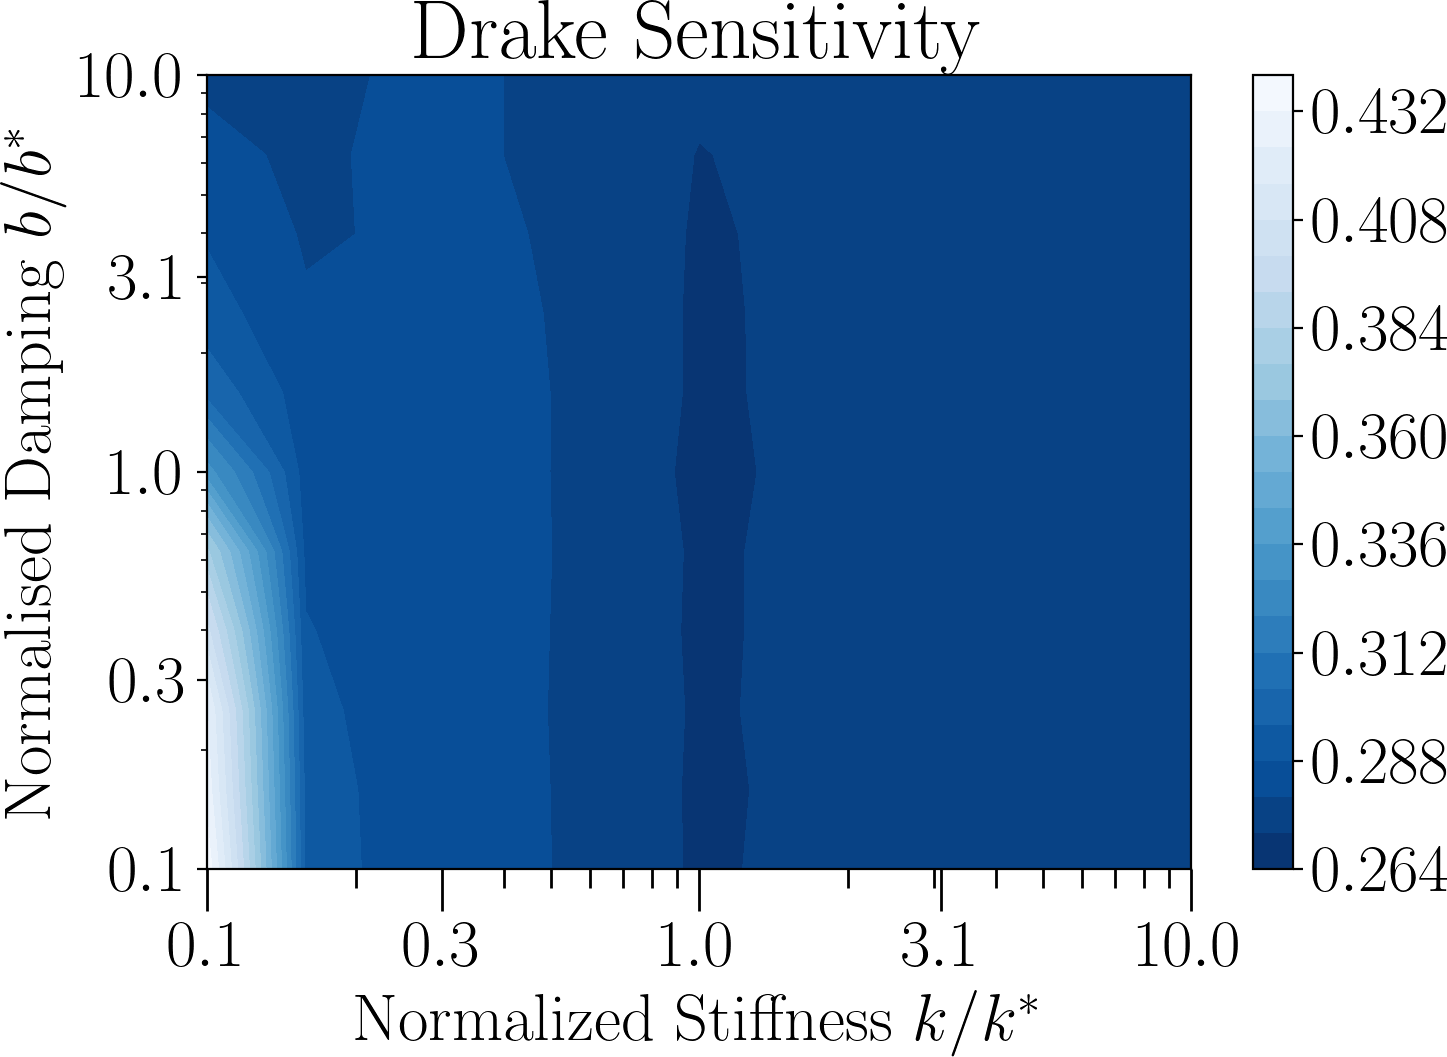
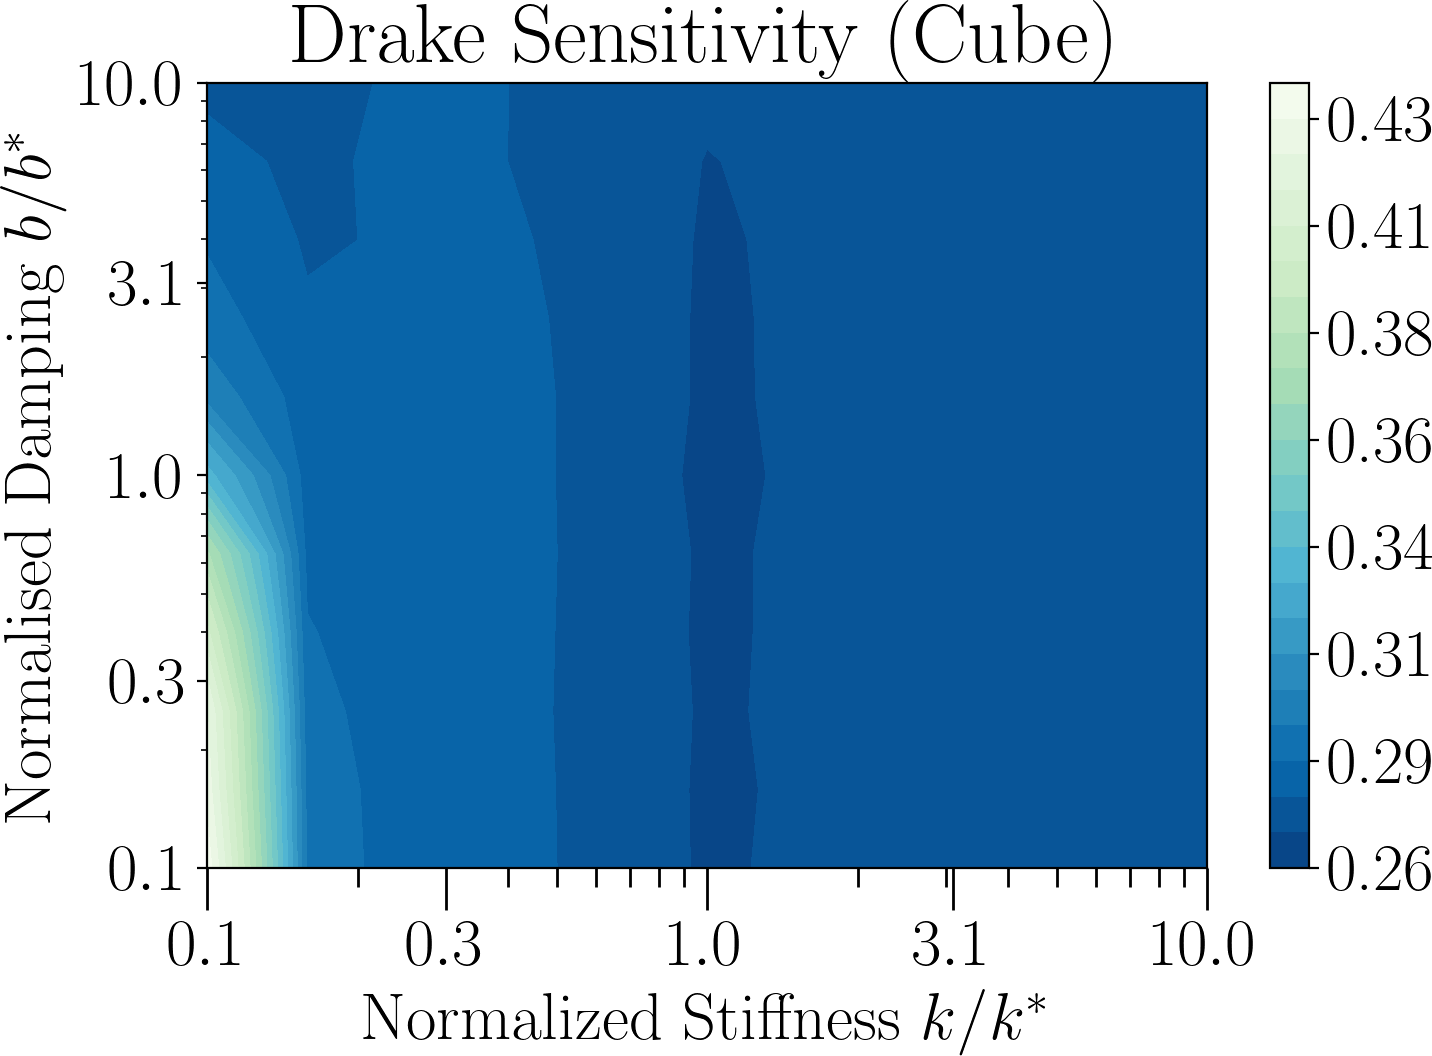
examples/contact_parameter_learning/cube_figures.py

diff --git a/examples/contact_parameter_learning/cube_figures.py b/examples/contact_parameter_learning/cube_figures.py
@@ -183,42 +183,45 @@ def make_pos_rot_sensitivity_analysis(ids, params_ranges):
 
 
 def make_gridded_sensitivity_analysis_figure(id, damp_key):
-    optimal_params, _, _ = cube_eval.load_params_and_logs(id)
-    stiffness_range = sa.get_stiffness_range(id.split('_')[0],
-                                            optimal_params['stiffness'], discretization_n=11)
-    damping_range = sa.get_damping_range(id.split('_')[0],
-                                         optimal_params[damp_key], discretization_n=11)
-    params_range = {'stiffness': stiffness_range['stiffness'],
-                    damp_key: damping_range[damp_key]}
-    weights = FastLossWeights(
-        pos=(1.0/BLOCK_HALF_WIDTH)*np.ones((3,)),
-        bullet=(format_sim_name(id) == 'Bullet'))
-    sensitivity_analysis = \
-        sa.get_gridded_stiffness_damping_sensitivity_analysis(
-            cube_eval.get_eval_sim(id), weights, optimal_params,
-            params_range, range(550))
+    # optimal_params, _, _ = cube_eval.load_params_and_logs(id)
+    # stiffness_range = sa.get_stiffness_range(id.split('_')[0],
+    #                                         optimal_params['stiffness'], discretization_n=11)
+    # damping_range = sa.get_damping_range(id.split('_')[0],
+    #                                      optimal_params[damp_key], discretization_n=11)
+    # params_range = {'stiffness': stiffness_range['stiffness'],
+    #                 damp_key: damping_range[damp_key]}
+    # weights = FastLossWeights(
+    #     pos=(1.0/BLOCK_HALF_WIDTH)*np.ones((3,)),
+    #     bullet=(format_sim_name(id) == 'Bullet'))
+    # sensitivity_analysis = \
+    #     sa.get_gridded_stiffness_damping_sensitivity_analysis(
+    #         cube_eval.get_eval_sim(id), weights, optimal_params,
+    #         params_range, range(550))
+    #
+    # X = sensitivity_analysis['stiffness'] / optimal_params['stiffness']
+    # Y = sensitivity_analysis[damp_key] / optimal_params[damp_key]
+    # Z = sensitivity_analysis['loss_avgs']
 
-    X = sensitivity_analysis['stiffness'] / optimal_params['stiffness']
-    Y = sensitivity_analysis[damp_key] / optimal_params[damp_key]
-    Z = sensitivity_analysis['loss_avgs']
 
-
-    np.save('cube_X_' + format_sim_name(id) + '_grid', X)
-    np.save('cube_Y_' + format_sim_name(id) + '_grid', Y)
-    np.save('cube_Z_' + format_sim_name(id) + '_grid', Z)
-    cmaps = {'Drake': 'Blues',
+    # np.save('cube_X_' + format_sim_name(id) + '_grid', X)
+    # np.save('cube_Y_' + format_sim_name(id) + '_grid', Y)
+    # np.save('cube_Z_' + format_sim_name(id) + '_grid', Z)
+    cmaps = {'Drake': 'GnBu',
              'MuJoCo': 'Reds',
              'Bullet': 'YlOrBr'}
 
-    # X = np.load('cube_X_' + format_sim_name(id) + '_grid.npy')
-    # Y = np.load('cube_Y_' + format_sim_name(id) + '_grid.npy')
-    # Z = np.load('cube_Z_' + format_sim_name(id) + '_grid.npy')
+    X = np.load('cube_X_' + format_sim_name(id) + '_grid.npy')
+    Y = np.load('cube_Y_' + format_sim_name(id) + '_grid.npy')
+    Z = np.load('cube_Z_' + format_sim_name(id) + '_grid.npy')
 
     # levels = np.linspace(0.27, 0.4, 50)
     cmap = plt.cm.get_cmap(cmaps[format_sim_name(id)])
     cmap = cmap.reversed()
     plt.contourf(X, Y, Z, 20, cmap=cmap)
-    plt.colorbar(extend='max')
+    if format_sim_name(id) == 'Bullet':
+        plt.colorbar(extend='max', label='Average Error $(e_{q})$', format='%.2f')
+    else:
+        plt.colorbar(extend='max', format='%.2f')
     plt.xscale('log')
     plt.yscale('log')
     frame = plt.gca()
@@ -232,7 +235,7 @@ def make_gridded_sensitivity_analysis_figure(id, damp_key):
     plt.xlabel('Normalized Stiffness $k / k^{*}$')
     if format_sim_name(id) == 'Drake':
         plt.ylabel('Normalised Damping $b / b^{*}$')
-    plt.title(f'{format_sim_name(id)} Sensitivity')
+    plt.title(f'{format_sim_name(id)} Sensitivity (Cube)')
 
     ps.save_fig(format_sim_name(id) + '_cube_grid')
 
@@ -479,14 +482,14 @@ def quick_video():
     cube_eval.visualize_learned_params(params, eval_sim, traj)
 
 if __name__ == '__main__':
-    # damping_keys = ['dissipation', 'damping', 'damping']
-    # sim_choice = int(sys.argv[1])
-    # make_gridded_sensitivity_analysis_figure(
-    #     paper_ids[sim_choice], damping_keys[sim_choice])
+    damping_keys = ['dissipation', 'damping', 'damping']
+    sim_choice = int(sys.argv[1])
+    make_gridded_sensitivity_analysis_figure(
+        paper_ids[sim_choice], damping_keys[sim_choice])
     # make_bounces_histogram(paper_ids)
     # plt.show()
     # make_estimated_pdf_figure()
-    make_friction_sensitivity_analysis_figure()
+    # make_friction_sensitivity_analysis_figure()
     # make_damping_sensitivity_analysis_figure()
     # make_stiffness_sensitivity_analysis_figure()
     # make_error_vs_time_plot()
